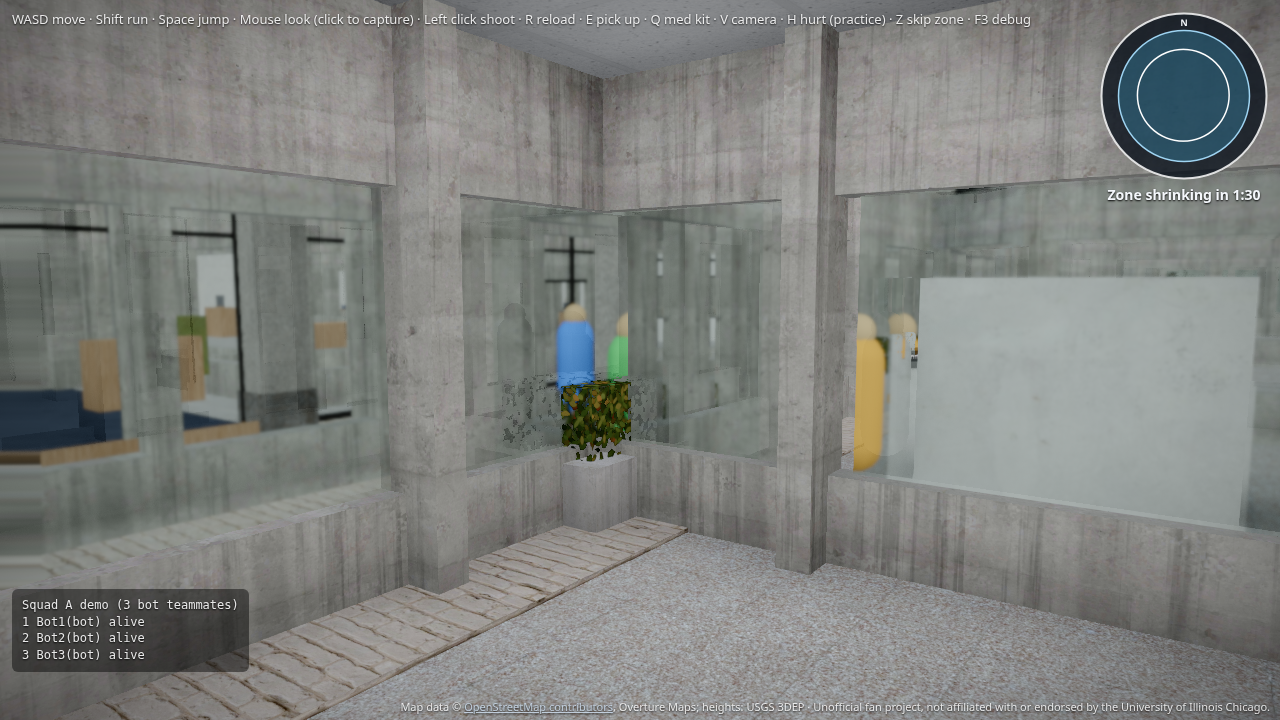
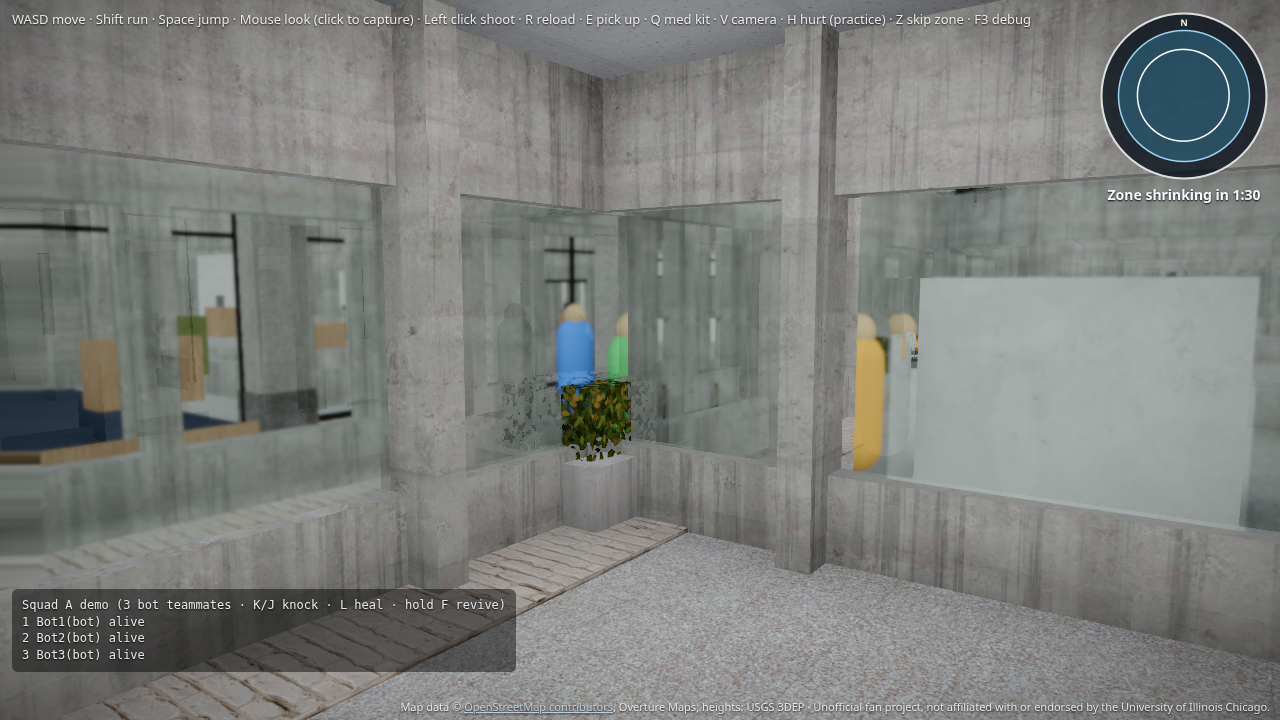
S3 review: default solo; move squad heal-all to L
parseSquadOptions now defaults to solo when ?squad is missing;
only an explicit ?squad=bots enables bots. Heal-all moves from H
(combat practice hurt) to L, which was free. Panel and URL docs updated.

Changed region(s): [[0.1875, 0.7944, 0.4062, 0.9472]]

diff --git a/client/src/squad/adapter.ts b/client/src/squad/adapter.ts
@@ -26,8 +26,9 @@ export interface SquadMount {
 
 export function parseSquadOptions(search: string): { mode: SquadMode; bleedFast: boolean } {
   const q = new URLSearchParams(search.startsWith('?') ? search : `?${search}`);
-  const raw = (q.get('squad') ?? 'bots').toLowerCase();
-  const mode: SquadMode = raw === 'solo' ? 'solo' : 'bots';
+  // Default solo (main behavior). Only an explicit ?squad=bots turns bots on.
+  const raw = (q.get('squad') ?? 'solo').toLowerCase();
+  const mode: SquadMode = raw === 'bots' ? 'bots' : 'solo';
   const bleed = q.get('bleedFast');
   return { mode, bleedFast: bleed === '1' || bleed === 'true' };
 }
@@ -45,8 +46,9 @@ interface BotBody {
 }
 
 /**
- * Mount squad mode. `?squad=solo` is a no-op (main behavior). Otherwise spawns 3 bot
- * teammates that follow and revive. Combat damage goes through applyDamage.
+ * Mount squad mode. Default / missing / `?squad=solo` is a no-op (main behavior).
+ * Only `?squad=bots` spawns 3 bot teammates that follow and revive.
+ * Combat damage goes through applyDamage.
  */
 export function mountSquad(opts: {
   world: World;
@@ -204,7 +206,7 @@ export function mountSquad(opts: {
     }
   };
 
-  // Debug keys K / J / H (and track F for revive).
+  // Debug keys K / J / L (and track F for revive). H stays combat practice hurt.
   const onKey = (e: KeyboardEvent) => {
     if (e.repeat || e.metaKey || e.ctrlKey || e.altKey) return;
     const t = e.target as HTMLElement | null;
@@ -228,8 +230,8 @@ export function mountSquad(opts: {
       const r = applyDamage(state, bot, 'debug', outcome);
       state = r.state;
       eventsLog.push(...r.events);
-    } else if (e.code === 'KeyH') {
-      // Heal all squadmates.
+    } else if (e.code === 'KeyL') {
+      // Heal all squadmates (L = life; H is combat practice hurt).
       const next = { ...state, members: { ...state.members } };
       for (const id of Object.keys(next.members)) {
         const m = next.members[id]!;
@@ -271,7 +273,7 @@ export function mountSquad(opts: {
     if (!player) {
       // Viewpoint / screenshot demo: keep bot meshes posed, no match stepping.
       panel.textContent =
-        `Squad A demo (3 bot teammates)\n` +
+        `Squad A demo (3 bot teammates · K/J knock · L heal · hold F revive)\n` +
         botIds.map((id, i) => `${i + 1} ${state.members[id]!.name}(bot) alive`).join('\n');
       return;
     }
@@ -377,7 +379,7 @@ export function mountSquad(opts: {
       .sort((a, b) => a.slot - b.slot)
       .map((m) => formatMember(m));
     panel.textContent =
-      `Squad A  (K knock you · J knock Bot1 · H heal · hold F revive)${bleedFast ? '  bleedFast' : ''}\n` +
+      `Squad A  (K knock you · J knock Bot1 · L heal · hold F revive)${bleedFast ? '  bleedFast' : ''}\n` +
       lines.join('\n');
   };
 

diff --git a/client/src/squad/adapter.test.ts b/client/src/squad/adapter.test.ts
@@ -2,14 +2,18 @@ import { describe, expect, it } from 'vitest';
 import { parseSquadOptions } from './adapter';
 
 describe('parseSquadOptions', () => {
-  it('defaults to bots', () => {
-    expect(parseSquadOptions('')).toEqual({ mode: 'bots', bleedFast: false });
-    expect(parseSquadOptions('?')).toEqual({ mode: 'bots', bleedFast: false });
+  it('defaults to solo when squad param is missing', () => {
+    expect(parseSquadOptions('')).toEqual({ mode: 'solo', bleedFast: false });
+    expect(parseSquadOptions('?')).toEqual({ mode: 'solo', bleedFast: false });
+    expect(parseSquadOptions('?bleedFast=1')).toEqual({ mode: 'solo', bleedFast: true });
   });
 
-  it('reads solo and bleedFast', () => {
-    expect(parseSquadOptions('?squad=solo')).toEqual({ mode: 'solo', bleedFast: false });
+  it('only ?squad=bots turns bots on; anything else is solo', () => {
+    expect(parseSquadOptions('?squad=bots')).toEqual({ mode: 'bots', bleedFast: false });
     expect(parseSquadOptions('?squad=bots&bleedFast=1')).toEqual({ mode: 'bots', bleedFast: true });
+    expect(parseSquadOptions('?squad=solo')).toEqual({ mode: 'solo', bleedFast: false });
     expect(parseSquadOptions('bleedFast=true&squad=SOLO')).toEqual({ mode: 'solo', bleedFast: true });
+    expect(parseSquadOptions('?squad=BOTS')).toEqual({ mode: 'bots', bleedFast: false });
+    expect(parseSquadOptions('?squad=other')).toEqual({ mode: 'solo', bleedFast: false });
   });
 });

diff --git a/client/src/main.ts b/client/src/main.ts
@@ -11,7 +11,7 @@ import { createPlayer } from './player';
 //   ?hour=<0-24>            time of day
 //   ?zoneFast=1             safe-zone timers run at 10× (damage per second stays the same)
 //   ?zoneSeed=<number>      picks where the circles land. Default is 1.
-//   ?squad=bots|solo        squad bots (default) or solo (= main). ?bleedFast=1 speeds bleed/revive.
+//   ?squad=bots|solo        only ?squad=bots enables bots; missing/solo = main. ?bleedFast=1 speeds bleed/revive.
 declare global {
   interface Window {
     __ready?: boolean;
@@ -48,7 +48,7 @@ async function start(): Promise<void> {
     search: location.search,
     applyDamage: (amount) => combat.applyZoneDamage(amount),
   });
-  // Squads (S3): bots + downed/revive. ?squad=solo keeps main solo behavior.
+  // Squads (S3): bots + downed/revive. Default/missing/?squad=solo = main solo behavior.
   const { mountSquad } = await import('./squad/adapter');
   mountSquad({ world, player, camera, combat, search: location.search });
 
